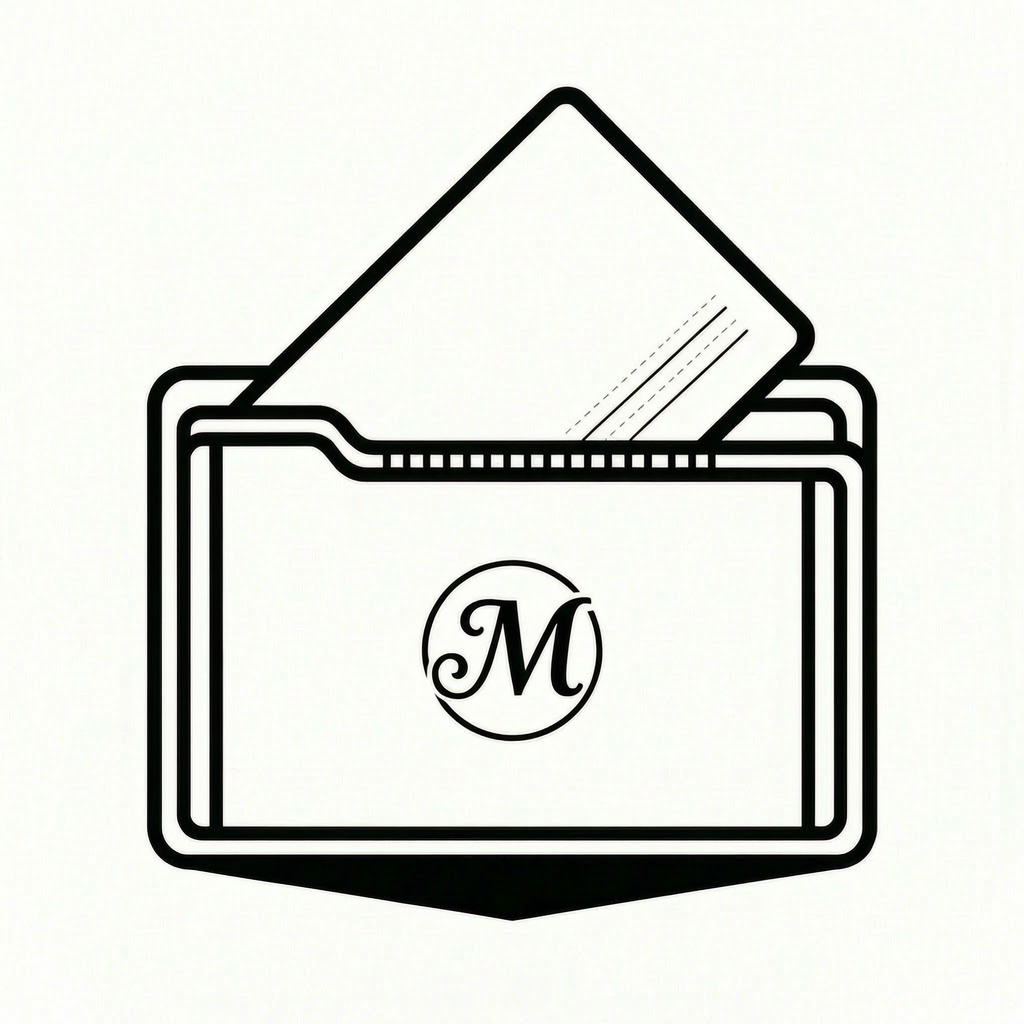
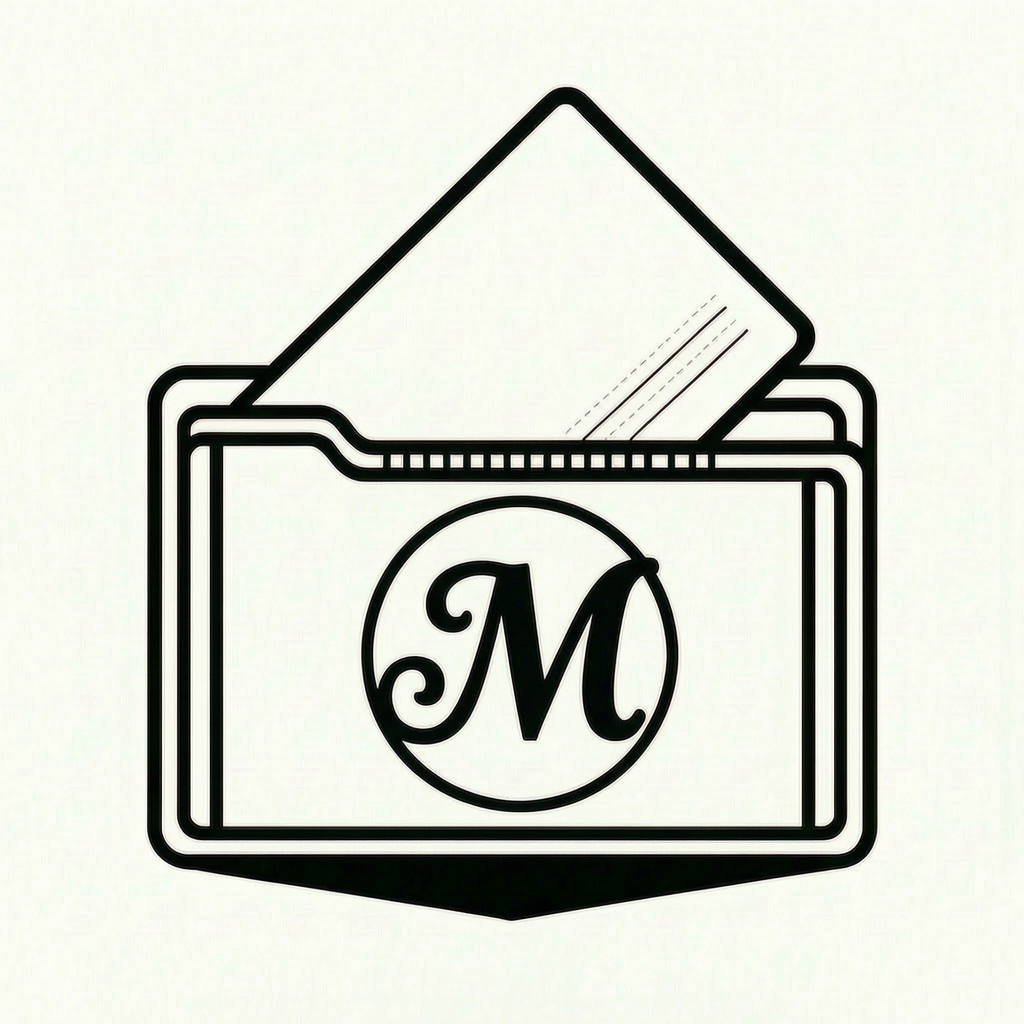
fix(ui): 修复顶栏图标在 retina 屏模糊问题
- 使用 96x96 高清 logo 替代 32x32 favicon 作为 header 图标
- 重新整理 icon/ 目录资源尺寸（48/180/256/1024）

diff --git a/src/components/layout/header.tsx b/src/components/layout/header.tsx
@@ -47,7 +47,7 @@ export function Header() {
         <div className="flex items-center justify-between h-14">
           {/* Logo */}
           <Link href="/" className="flex items-center gap-2 font-bold text-lg text-gray-900">
-            <Image src="/icon.png" alt="CardVault" width={24} height={24} className="w-6 h-6" />
+            <Image src="/logo.png" alt="CardVault" width={96} height={96} className="w-7 h-7" />
             <span>CardVault</span>
             <span className="text-xs font-normal text-gray-400 tracking-wide">
               v{process.env.NEXT_PUBLIC_APP_VERSION}
